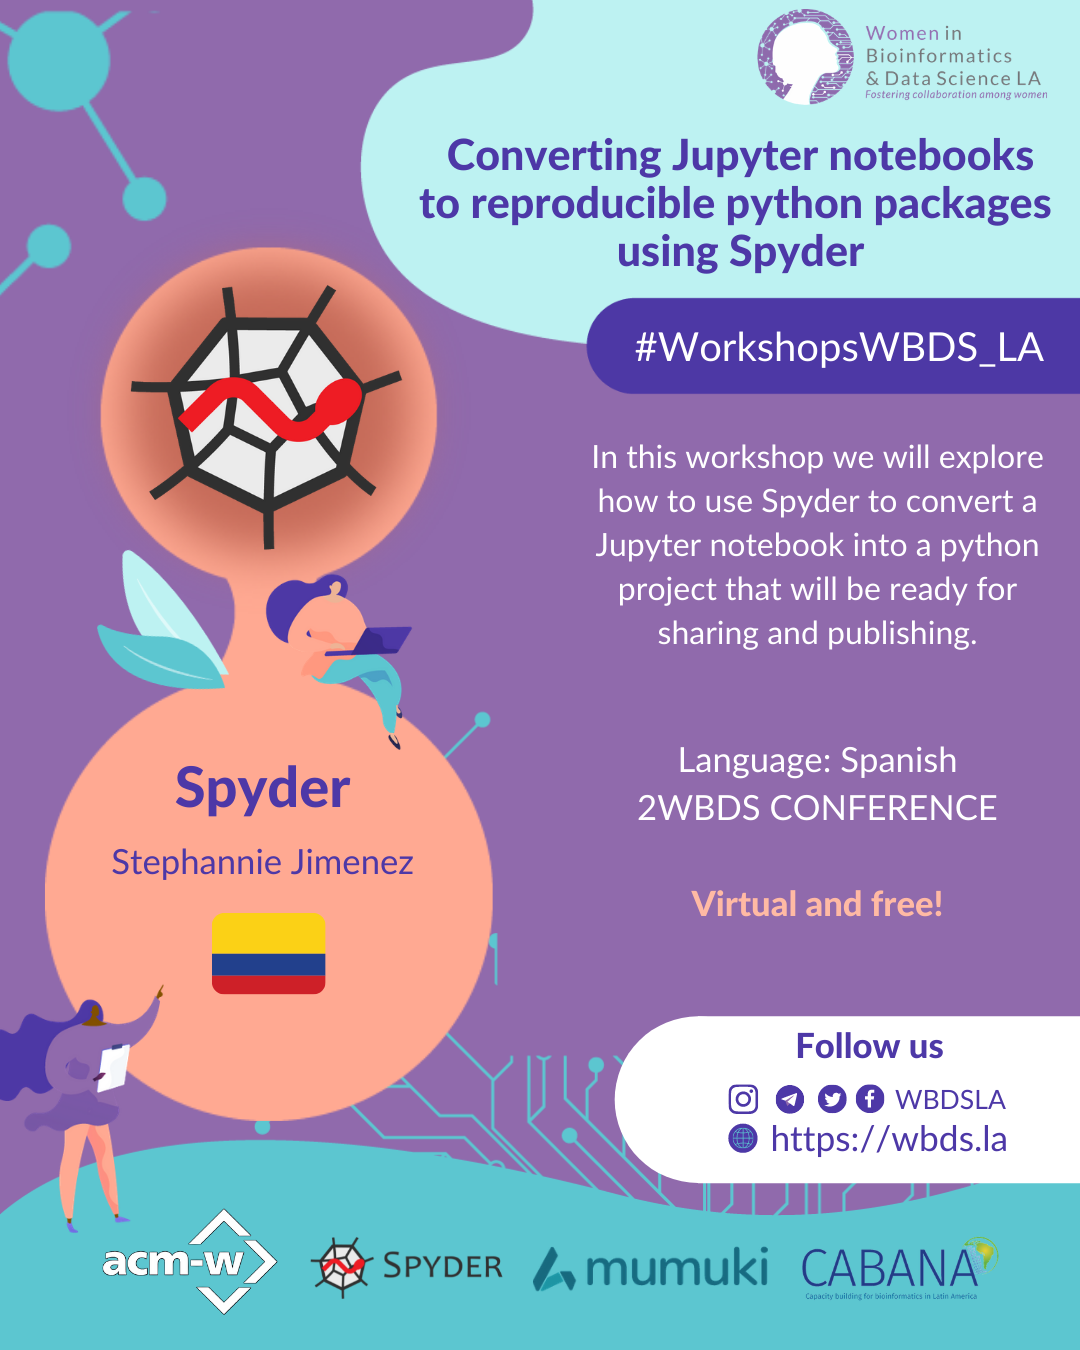
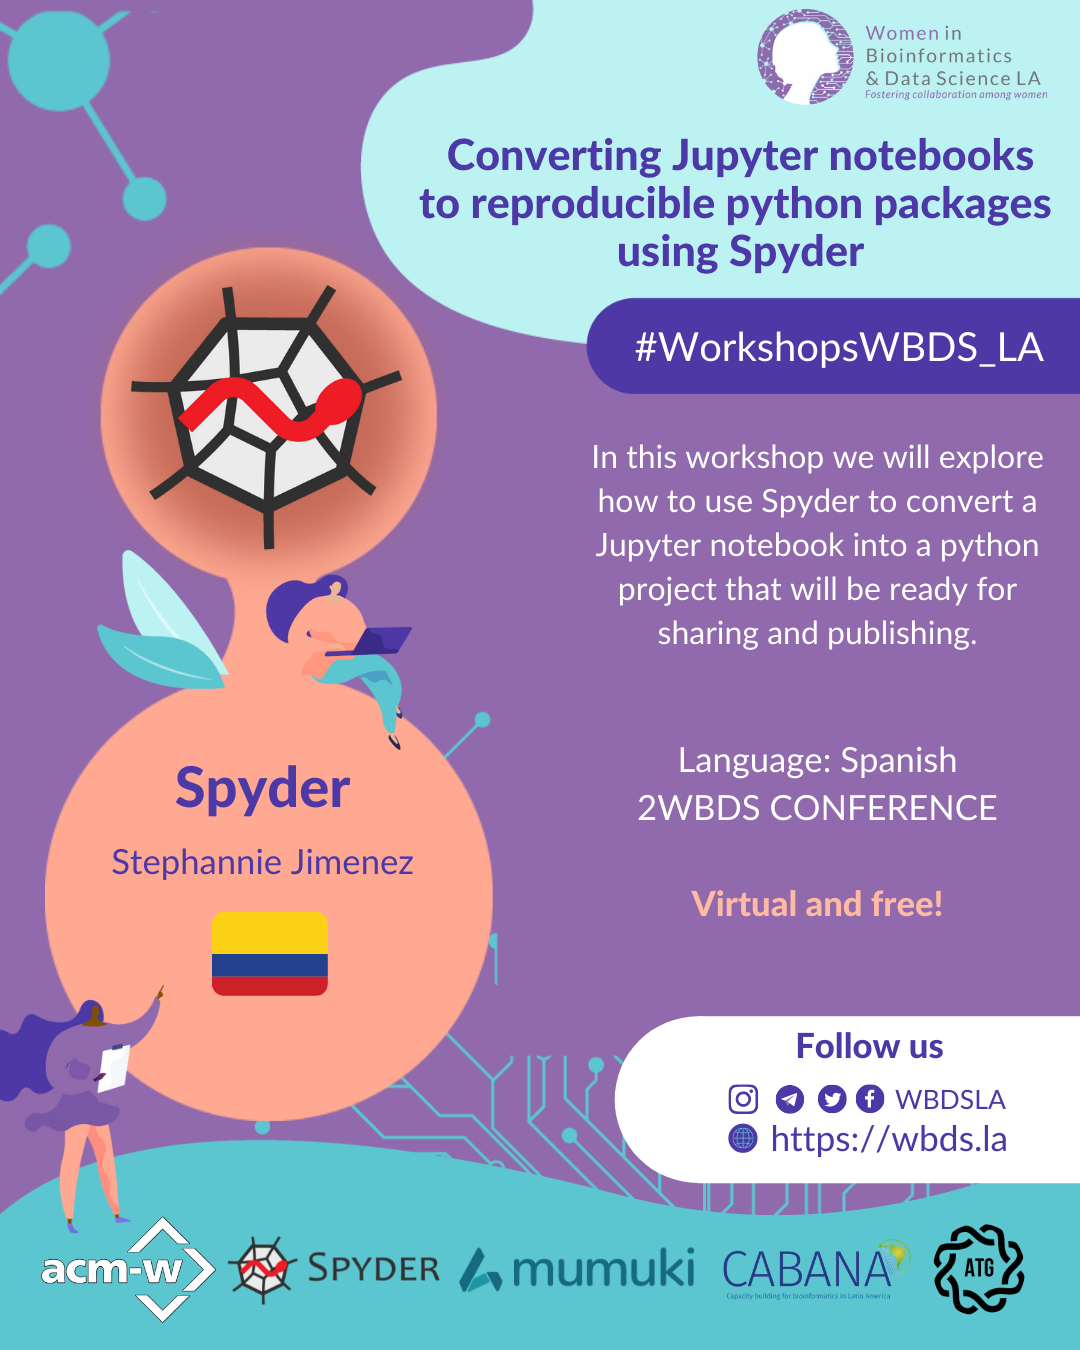
fixed program and added new flyers of the workshops

Changed region(s): [[0.0306, 0.9022, 0.55, 0.9956], [0.5806, 0.9022, 0.9472, 0.9956], [0.275, 0.6844, 0.3056, 0.7467]]

diff --git a/conferences/2WBDSLAC/assets/js/index.js b/conferences/2WBDSLAC/assets/js/index.js
@@ -296,15 +296,11 @@ function renderProgramSection(){
             <td>Eliana Asciutto (Argentina)</td>
         </tr>
         <tr class="breaks">
-            <td>14:50 - 15:00</td>
-            <td colspan="2">Coffee Break</td>
-        </tr>    
-        <tr class="breaks">
-            <td>15:00 - 16:20</td>
+            <td>14:50 - 16:10</td>
             <td colspan="2">Lightning talks</td>
         </tr>
         <tr class="breaks">
-            <td>16:20 - 16:30</td>
+            <td>16:10 - 16:30</td>
             <td colspan="2">Coffee Break</td>
         </tr>
         <tr class="prog-tracks">

diff --git a/conferences/2WBDSLAC/index.html b/conferences/2WBDSLAC/index.html
@@ -162,9 +162,10 @@
         </section>
         <section class="workshops-section disable" id="workshops-section">
             <div>
-                <img src="assets/img/maryam_w.png">
-                <img src="assets/img/liliane_w.png">
+                <img src="assets/img/colombia_w.png">
+                <img src="assets/img/lili_w.png">
                 <img src="assets/img/spyder_w.png">
+                <img src="assets/img/atg_w.png">
             </div>
         </section>
 

diff --git a/index.html b/index.html
@@ -144,10 +144,9 @@
                     <h3 id="conference-h3">22-24 Sep 21</h3>
                 </div>
             </a>
-            <a class="clickable">
+            <a class="clickable" href="/conferences/2WBDSLAC/index.html" target="_blank" >
                 <div>
                     <h2 id="workshops-h2">Workshops</h2>
-                    <h3 id="workshops-h3">Comming Soon!</h3>
                 </div>
             </a>
             <a>
